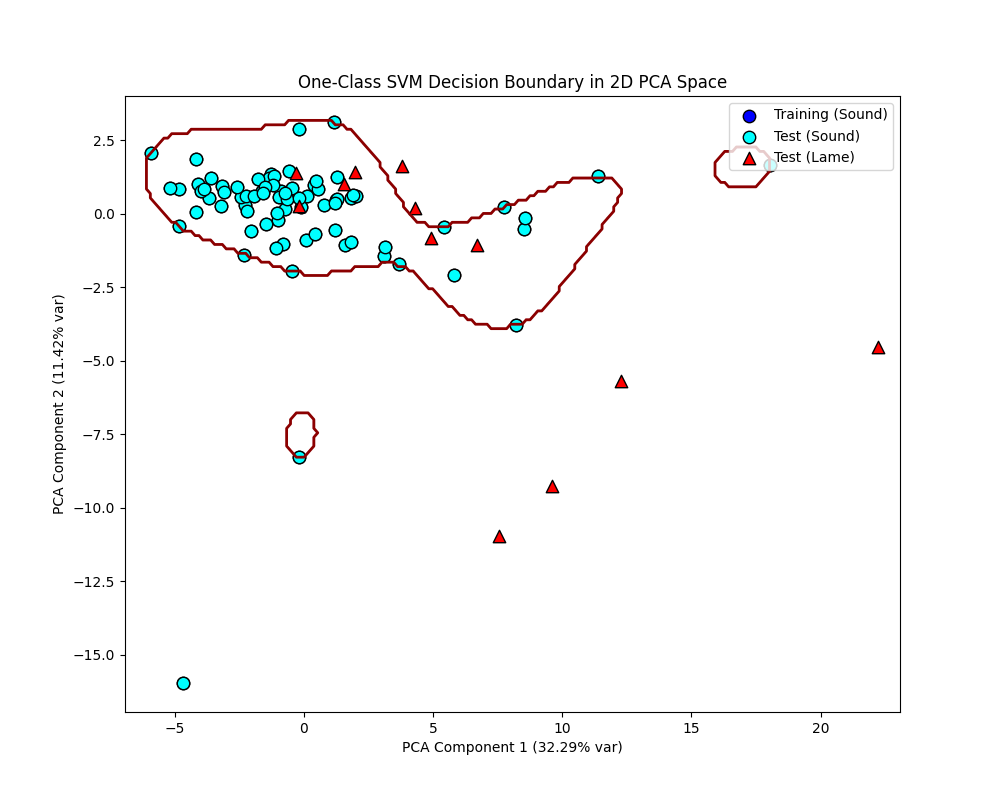
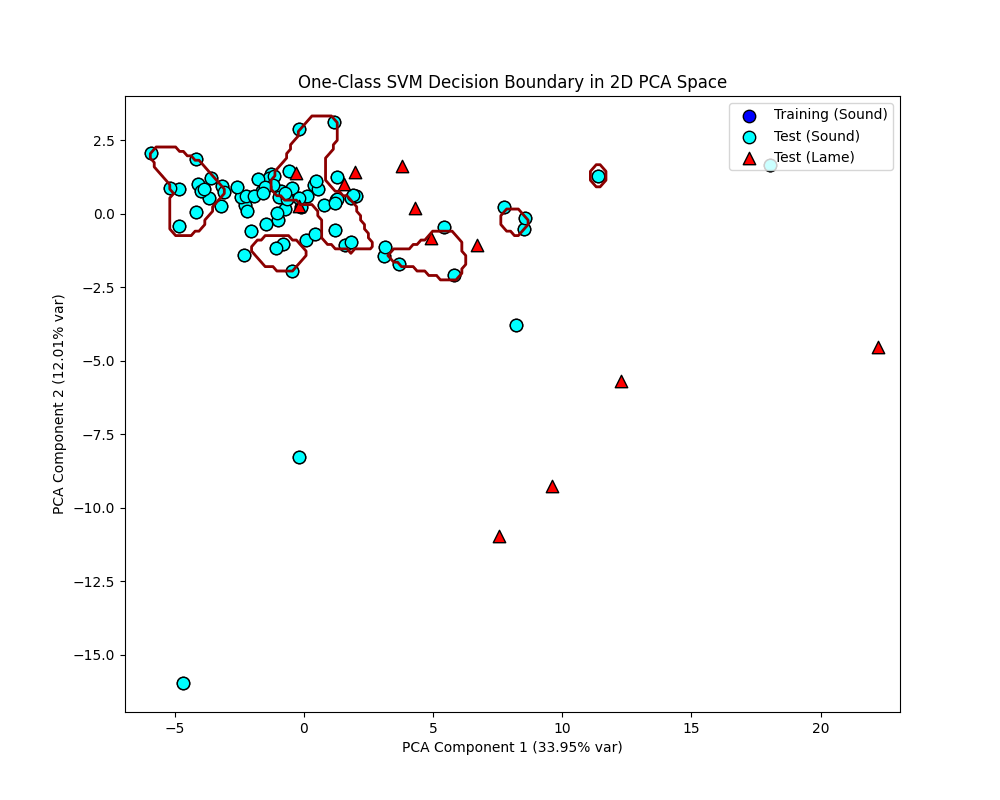
Update OCSVM parameters and results; enhance classification metrics and add misclassified samples

diff --git a/6.5-classification(1-class SVM).py b/6.5-classification(1-class SVM).py
@@ -8,7 +8,7 @@ import numpy as np
 import matplotlib.pyplot as plt
 from sklearn.svm import OneClassSVM
 from sklearn.model_selection import LeaveOneOut, GridSearchCV
-from sklearn.metrics import accuracy_score, classification_report, ConfusionMatrixDisplay, f1_score
+from sklearn.metrics import accuracy_score, classification_report, ConfusionMatrixDisplay, f1_score, recall_score
 from sklearn.pipeline import Pipeline
 from sklearn.preprocessing import StandardScaler
 from sklearn.feature_selection import SelectKBest, f_classif
@@ -319,12 +319,12 @@ def SVM_classification(feature_file_path):
     # Goal: Maximize F1-score (or other metric) on the Validation set (Sound Val + Lame Val).
     
     # Grid Search Parameters - UPDATED based on feedback
-    # Reduced nu range to avoid rejecting too many normal samples.
-    # Added more gamma options.
+    # Expanded ranges for better optimization
     param_grid = {
-        'ocsvm__nu': [0.01, 0.03, 0.05, 0.1, 0.15, 0.2],
-        'ocsvm__gamma': ['scale', 'auto', 0.001, 0.01, 0.05, 0.1],
-        'ocsvm__kernel': ['rbf', 'sigmoid']
+        'ocsvm__nu': [0.001, 0.005, 0.01, 0.03, 0.05, 0.08, 0.1, 0.15, 0.2],
+        'ocsvm__gamma': ['scale', 'auto', 0.0001, 0.0005, 0.001, 0.005, 0.01, 0.05, 0.1, 0.5],
+        'ocsvm__kernel': ['rbf', 'sigmoid', 'poly'],
+        'pca__n_components': [0.90, 0.95, 0.99]
     }
     
     best_score = -1
@@ -350,9 +350,16 @@ def SVM_classification(feature_file_path):
     from sklearn.model_selection import ParameterGrid
     grid = list(ParameterGrid(param_grid))
     
-    for params in grid:
+    print(f"Testing {len(grid)} parameter combinations...")
+
+    for i, params in enumerate(grid):
         scores = []
-        
+        if i % 10 == 0:
+            print(f"  Processing combination {i}/{len(grid)}...")
+            
+        # Extract PCA params separately
+        pca_n = params.pop('pca__n_components', 0.95)
+
         for train_idx, val_idx in kf.split(X_sound):
             X_train_fold = X_sound[train_idx]
             X_val_sound_fold = X_sound[val_idx]
@@ -366,7 +373,7 @@ def SVM_classification(feature_file_path):
             # Note: We need to reconstruct the pipeline for each iteration to change params
             current_pipe = Pipeline([
                 ('scaler', StandardScaler()),
-                ('pca', PCA(n_components=0.95)),
+                ('pca', PCA(n_components=pca_n)),
                 ('ocsvm', OneClassSVM(**{k.replace('ocsvm__', ''): v for k, v in params.items()}))
             ])
             
@@ -380,28 +387,57 @@ def SVM_classification(feature_file_path):
             # Map OCSVM outputs to our labels: 1 -> 0 (Sound), -1 -> 1 (Lame)
             preds_mapped = np.where(preds_raw == 1, 0, 1)
             
-            # Score (F1 Macro to balance importance of detecting Lame)
-            score = f1_score(y_val_fold, preds_mapped, average='macro', zero_division=0)
-            scores.append(score)
+            # Score (Recall for Lame class - Prioritize sensitivity)
+            # We want to catch as many Lame pigs as possible.
+            # pos_label=1 refers to Lame class.
+            recall = recall_score(y_val_fold, preds_mapped, pos_label=1, zero_division=0)
             
+            # Secondary metric: Precision (to break ties if recalls are equal)
+            # or F2 score (which weights recall higher than precision)
+            # Let's use a weighted score: 0.8 * Recall + 0.2 * Precision to avoid trivial solutions
+            # But the user specifically asked for sensitivity, so let's stick to Recall as primary.
+            # However, pure Recall might just pick the highest `nu` (predicting everything as anomaly).
+            # So let's use F2-score which weights Recall 2x more than Precision.
+            
+            # Actually, let's use F2 score to be safe against trivial "all anomaly" models
+            beta = 2
+            p = 0 # precision placeholder, not needed for direct calc
+            # fbeta_score calculation manually or import it? Let's just use recall for now but check precision.
+            
+            # Simple approach: Maximize Recall, use Precision as tie-breaker
+            score = recall
+            scores.append(score)
+        
+        # Restore PCA param for saving to best_params
+        params['pca__n_components'] = pca_n
+
         avg_score = np.mean(scores)
+        
+        # We need a tie-breaker because many params might give the same discrete recall (e.g. 10/12 vs 11/12)
+        # But here we are averaging over folds, so it's a float.
         if avg_score > best_score:
             best_score = avg_score
             best_params = params
+            print(f"  New best score (Recall Lame): {best_score:.4f} with params {best_params}")
             
     print(f"\nBest Parameters found: {best_params}")
-    print(f"Best CV Score (F1 Macro): {best_score:.3f}")
+    print(f"Best CV Score (Recall Lame): {best_score:.3f}")
     
     # --- Final Training and Evaluation ---
     # Train on ALL Sound data with best params
+    pca_n_final = best_params.pop('pca__n_components', 0.95)
+    
     best_pipe = Pipeline([
         ('scaler', StandardScaler()),
-        ('pca', PCA(n_components=0.95)),
+        ('pca', PCA(n_components=pca_n_final)),
         ('ocsvm', OneClassSVM(**{k.replace('ocsvm__', ''): v for k, v in best_params.items()}))
     ])
     
     best_pipe.fit(X_sound)
     best_model = best_pipe # Save for viz
+    
+    # Put PCA param back for saving
+    best_params['pca__n_components'] = pca_n_final
     
     # Evaluation on the entire dataset (Sound + Lame) just to see overall fit
     # Note: Training error on Sound is included here, which is expected for OCSVM (it should classify most Sound as Sound)
@@ -419,6 +455,29 @@ def SVM_classification(feature_file_path):
     print("\nClassification Report:")
     print(classification_report(y_full, y_pred, target_names=target_names, zero_division=0))
 
+    # --- Identify Misclassified IDs ---
+    print("\nMisclassified Samples:")
+    
+    # Reconstruct IDs in the same order as X_full
+    # X_full is [X_sound, X_lame]
+    sound_ids = sorted(list(classified_features.get('sound', {}).keys()))
+    lame_ids = sorted(list(classified_features.get('lame', {}).keys()))
+    full_ids = sound_ids + lame_ids
+    
+    misclassified_info = []
+    
+    for i, (true_label, pred_label) in enumerate(zip(y_full, y_pred)):
+        if true_label != pred_label:
+            vid_id = full_ids[i] if i < len(full_ids) else "Unknown"
+            status = "False Positive (Healthy classified as Lame)" if pred_label == 1 else "False Negative (Lame classified as Healthy)"
+            print(f"  {vid_id}: {status}")
+            misclassified_info.append({
+                "id": vid_id,
+                "true_label": "Sound" if true_label == 0 else "Lame",
+                "pred_label": "Sound" if pred_label == 0 else "Lame",
+                "status": status
+            })
+
     # --- Visualization ---
     print("\nGenerating visualizations...")
     output_dir = os.path.join(os.path.dirname(feature_file_path), 'classification_ocsvm')
@@ -431,7 +490,8 @@ def SVM_classification(feature_file_path):
         "best_params": best_params,
         "best_cv_score": best_score,
         "final_accuracy": accuracy,
-        "classification_report": classification_report(y_full, y_pred, target_names=target_names, zero_division=0, output_dict=True)
+        "classification_report": classification_report(y_full, y_pred, target_names=target_names, zero_division=0, output_dict=True),
+        "misclassified_samples": misclassified_info
     }
 
     try:
